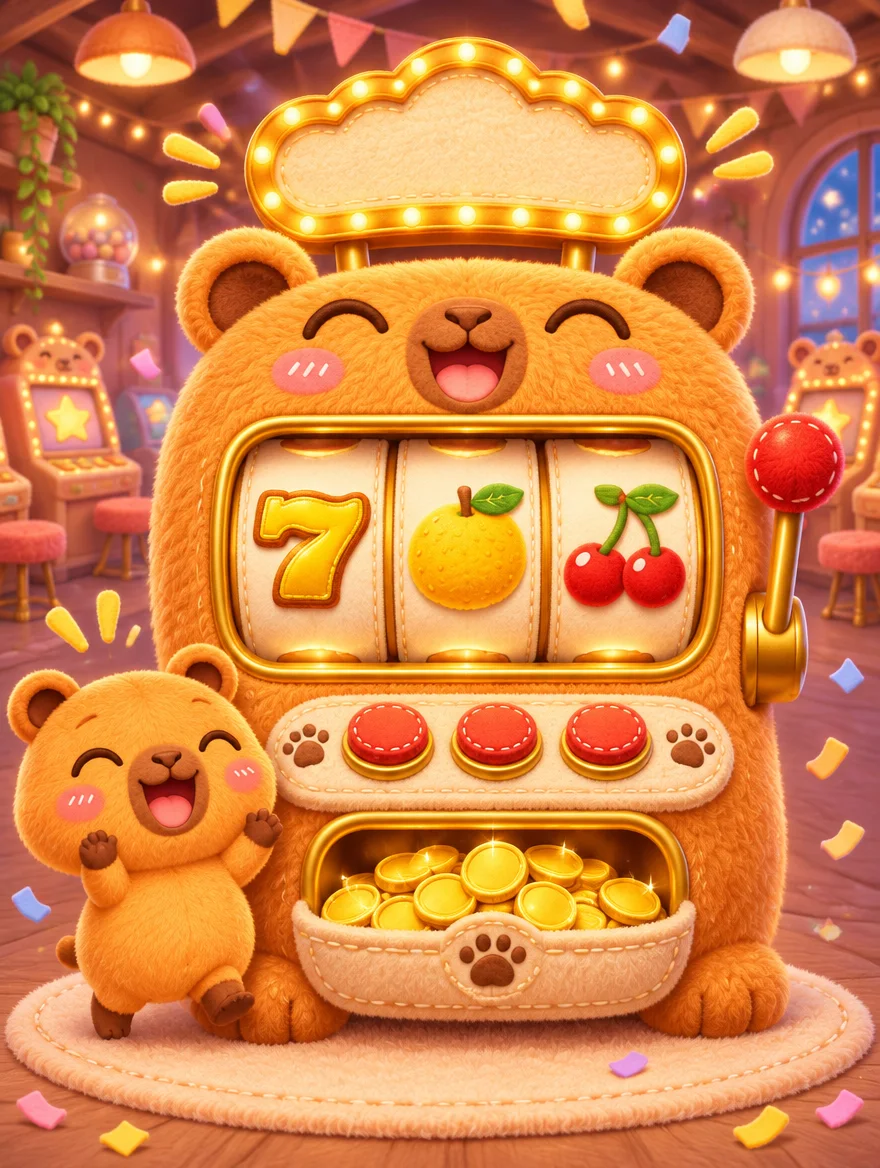
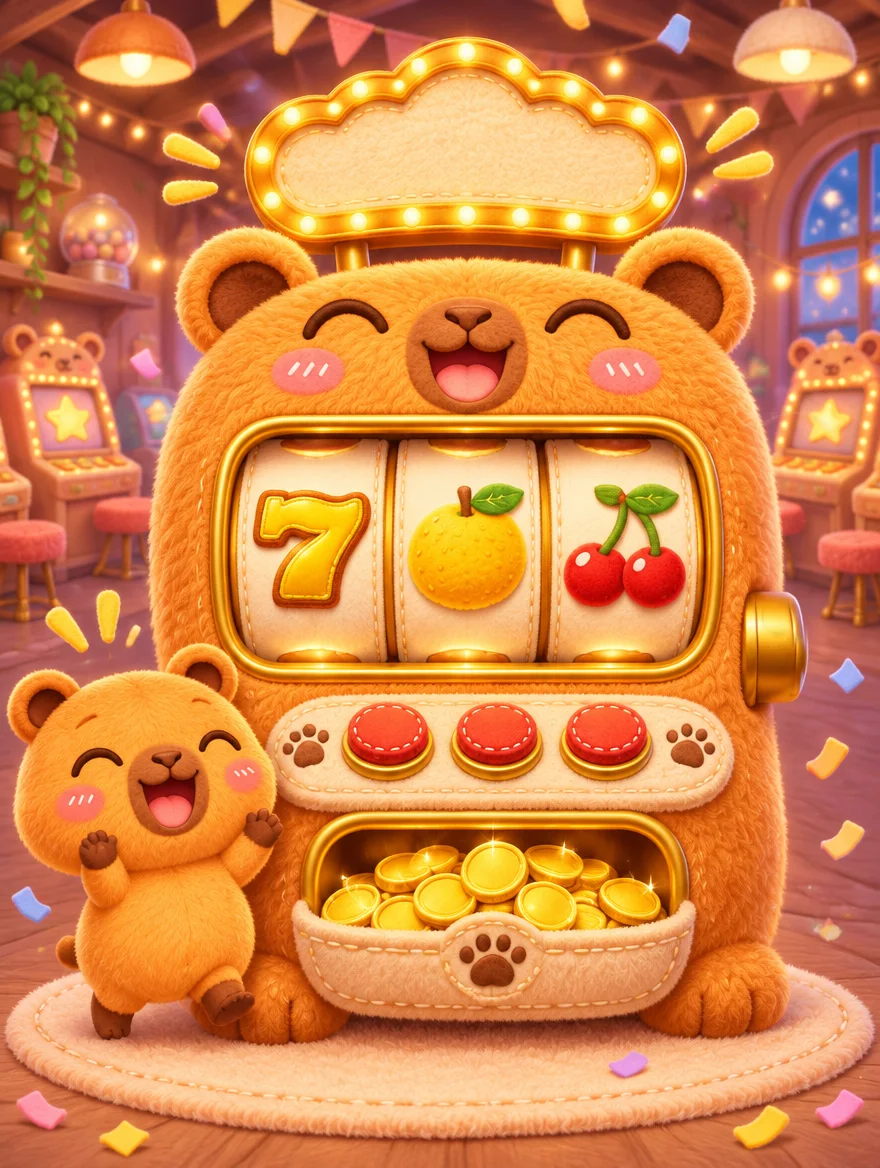
카피도박 레버가 실제로 당겨지게
Claude-Session: https://claude.ai/code/session_015t7mweLLBzEFYGgsGmysr6

Changed region(s): [[0.8284, 0.339, 0.9818, 0.5548]]

diff --git a/js/g-slot.js b/js/g-slot.js
@@ -18,7 +18,7 @@ export function mount(el, ctx) {
   const betBtns = BETS.map(n => h('button', { class: 'sl-bet' + (n === bet ? ' on' : ''), onClick: () => { if (busy) return; bet = n; betBtns.forEach((b, i) => b.classList.toggle('on', BETS[i] === n)); sfx('tock'); } }, String(n)));
   const spinBtn = h('button', { class: 'sl-spin', onClick: () => spin() }, 'SPIN');
   const msg = h('div', { class: 'sl-msg' }, '레버를 당겨요!'), have = h('b', { class: 'sl-have' });
-  const cab = h('div', { class: 'sl-cab' }, sign, h('div', { class: 'sl-win' }, ...reels), lever, h('div', { class: 'sl-btns' }, betBtns[0], spinBtn, betBtns[1]), msg);
+  const cab = h('div', { class: 'sl-cab' }, sign, h('div', { class: 'sl-win' }, ...reels), h('img', { class: 'sl-stick', src: 'img/slot/stick.webp', alt: '' }), h('img', { class: 'sl-ball', src: 'img/slot/ball.webp', alt: '' }), lever, h('div', { class: 'sl-btns' }, betBtns[0], spinBtn, betBtns[1]), msg);
   const drawHave = () => { have.textContent = `🪙 ${ctx.coins().toLocaleString('ko-KR')}코인`; }; drawHave(); const iv = setInterval(drawHave, 800);
   el.append(h('div', { class: 'sl-top' }, have, h('button', { class: 'btn sm', onClick: table }, '📋 배당표')), cab,
     h('p', { class: 'dim center sl-note' }, '가운데 한 줄에 같은 그림 3개! · 실제 카지노 슬롯머신의 방식과 비율을 근거로 만든 게임이에요'));
@@ -31,8 +31,8 @@ export function mount(el, ctx) {
     s.style.transition = `transform ${ms}ms cubic-bezier(.15,.6,.25,1.04)`; s.style.transform = 'translateY(0)';
     setTimeout(() => { if (!alive) return res(); s.style.transition = 'none'; s.replaceChildren(h('img', { src: img(k), alt: '' })); reels[i].classList.add('stop'); setTimeout(() => reels[i].classList.remove('stop'), 260); sfx('tock'); res(); }, ms); });
   async function spin() { if (busy || !alive) return; if (ctx.coins() < bet) return toast(`돈이 모자라요 · ${bet}코인이 필요해요`, 1800);
-    busy = true; cab.classList.remove('win', 'big'); lever.classList.add('pull'); setTimeout(() => lever.classList.remove('pull'), 500);
-    if (!(await ctx.spend(bet))) { busy = false; return; } drawHave(); msg.textContent = '두근두근…'; msg.className = 'sl-msg';
+    busy = true; cab.classList.remove('win', 'big'); cab.classList.remove('pull'); void cab.offsetWidth; cab.classList.add('pull'); setTimeout(() => cab.classList.remove('pull'), 700);
+    if (!(await ctx.spend(bet))) { busy = false; return; } sfx('swing'); drawHave(); msg.textContent = '두근두근…'; msg.className = 'sl-msg';
     const ks = [roll(), roll(), roll()], x = payOf(ks), win = bet * x;
     await Promise.all(ks.map((k, i) => run(i, k, 14 + i * 8, 1100 + i * 650))); if (!alive) return;
     if (win) { await ctx.store.tx('money/' + ctx.uid, c => ({ ...(c || {}), c: ((c && c.c) || 0) + win, total: ((c && c.total) || 0) + win })).catch(() => {}); drawHave();

diff --git a/css/app.css b/css/app.css
@@ -3010,7 +3010,7 @@ img.kb-sic { width: 30px; height: 30px; object-fit: contain; display: block; mar
 @keyframes newTag { from { scale: 0; } } @keyframes newRing { from { scale: .6; opacity: .9; } to { scale: 6; opacity: 0; } }
 /* 🎰 카피도박 */
 .sl-top { display: flex; justify-content: space-between; align-items: center; max-width: 380px; margin: 0 auto 6px; } .sl-have { font: 900 16px var(--head); color: #7A4A12; }
-.sl-cab { position: relative; max-width: 380px; margin: 0 auto; aspect-ratio: 880 / 1168; background: url(../img/slot/cab.webp) center / 100% 100% no-repeat; border-radius: 18px; overflow: hidden; container-type: inline-size; user-select: none; -webkit-user-select: none; }
+.sl-cab { position: relative; max-width: 380px; margin: 0 auto; aspect-ratio: 880 / 1168; background: url(../img/slot/cab.webp?v=2) center / 100% 100% no-repeat; border-radius: 18px; overflow: hidden; container-type: inline-size; user-select: none; -webkit-user-select: none; }
 .sl-sign { position: absolute; left: 32%; width: 42%; top: 8%; height: 9.5%; display: grid; place-items: center; align-content: center; text-align: center; }
 .sl-sign b { font: 900 6.4cqw/1 var(--head); color: #C2410C; letter-spacing: .02em; } .sl-sign small { font: 900 2.8cqw/1.2 var(--head); color: #E08A1E; letter-spacing: .15em; }
 .sl-win { position: absolute; left: 27%; width: 52.4%; top: 37.4%; height: 19.2%; display: grid; grid-template-columns: repeat(3, 1fr); gap: 1.2%; }
@@ -3031,3 +3031,10 @@ img.kb-sic { width: 30px; height: 30px; object-fit: contain; display: block; mar
 /* 카피도박 안내 글: 기계 아래 러그 위의 펠트 이름표로 */
 .sl-msg { left: 13%; right: 13%; top: 86.5%; padding: 2cqw 3cqw; border-radius: 6cqw; background: linear-gradient(#FFFBEF, #FFEBC2); border: .8cqw solid #B5651D; box-shadow: 0 1cqw 0 #8A4A12, 0 0 0 .6cqw #FFF6DC inset; outline: .5cqw dashed #E7B36A; outline-offset: -1.6cqw; color: #7A3E0A; text-shadow: none; font-size: 4.6cqw; }
 .sl-msg.ok { color: #C2410C; font-size: 5.2cqw; background: linear-gradient(#FFF7B8, #FFD23F); border-color: #C97A0A; box-shadow: 0 1cqw 0 #A8650A, 0 0 5cqw 1cqw rgba(255,220,90,.9); }
+/* 카피도박 레버: 공과 막대를 따로 올려 실제로 당겨진다 */
+.sl-stick { position: absolute; left: 86.4%; top: 42.5%; width: 5.8%; height: 11.8%; transform-origin: 50% 100%; pointer-events: none; }
+.sl-ball { position: absolute; left: 84.1%; top: 35.3%; width: 12.5%; pointer-events: none; filter: drop-shadow(0 .6cqw .6cqw rgba(0,0,0,.25)); }
+.sl-cab.pull .sl-stick { animation: slStick .7s cubic-bezier(.3,.1,.3,1); } .sl-cab.pull .sl-ball { animation: slBall .7s cubic-bezier(.3,.1,.3,1); }
+@keyframes slStick { 30%, 45% { transform: scaleY(.3); } 75% { transform: scaleY(1.06); } }
+@keyframes slBall { 30%, 45% { transform: translateY(11cqw) scale(1.08); } 75% { transform: translateY(-1cqw); } }
+.sl-lever.pull { animation: none; }
